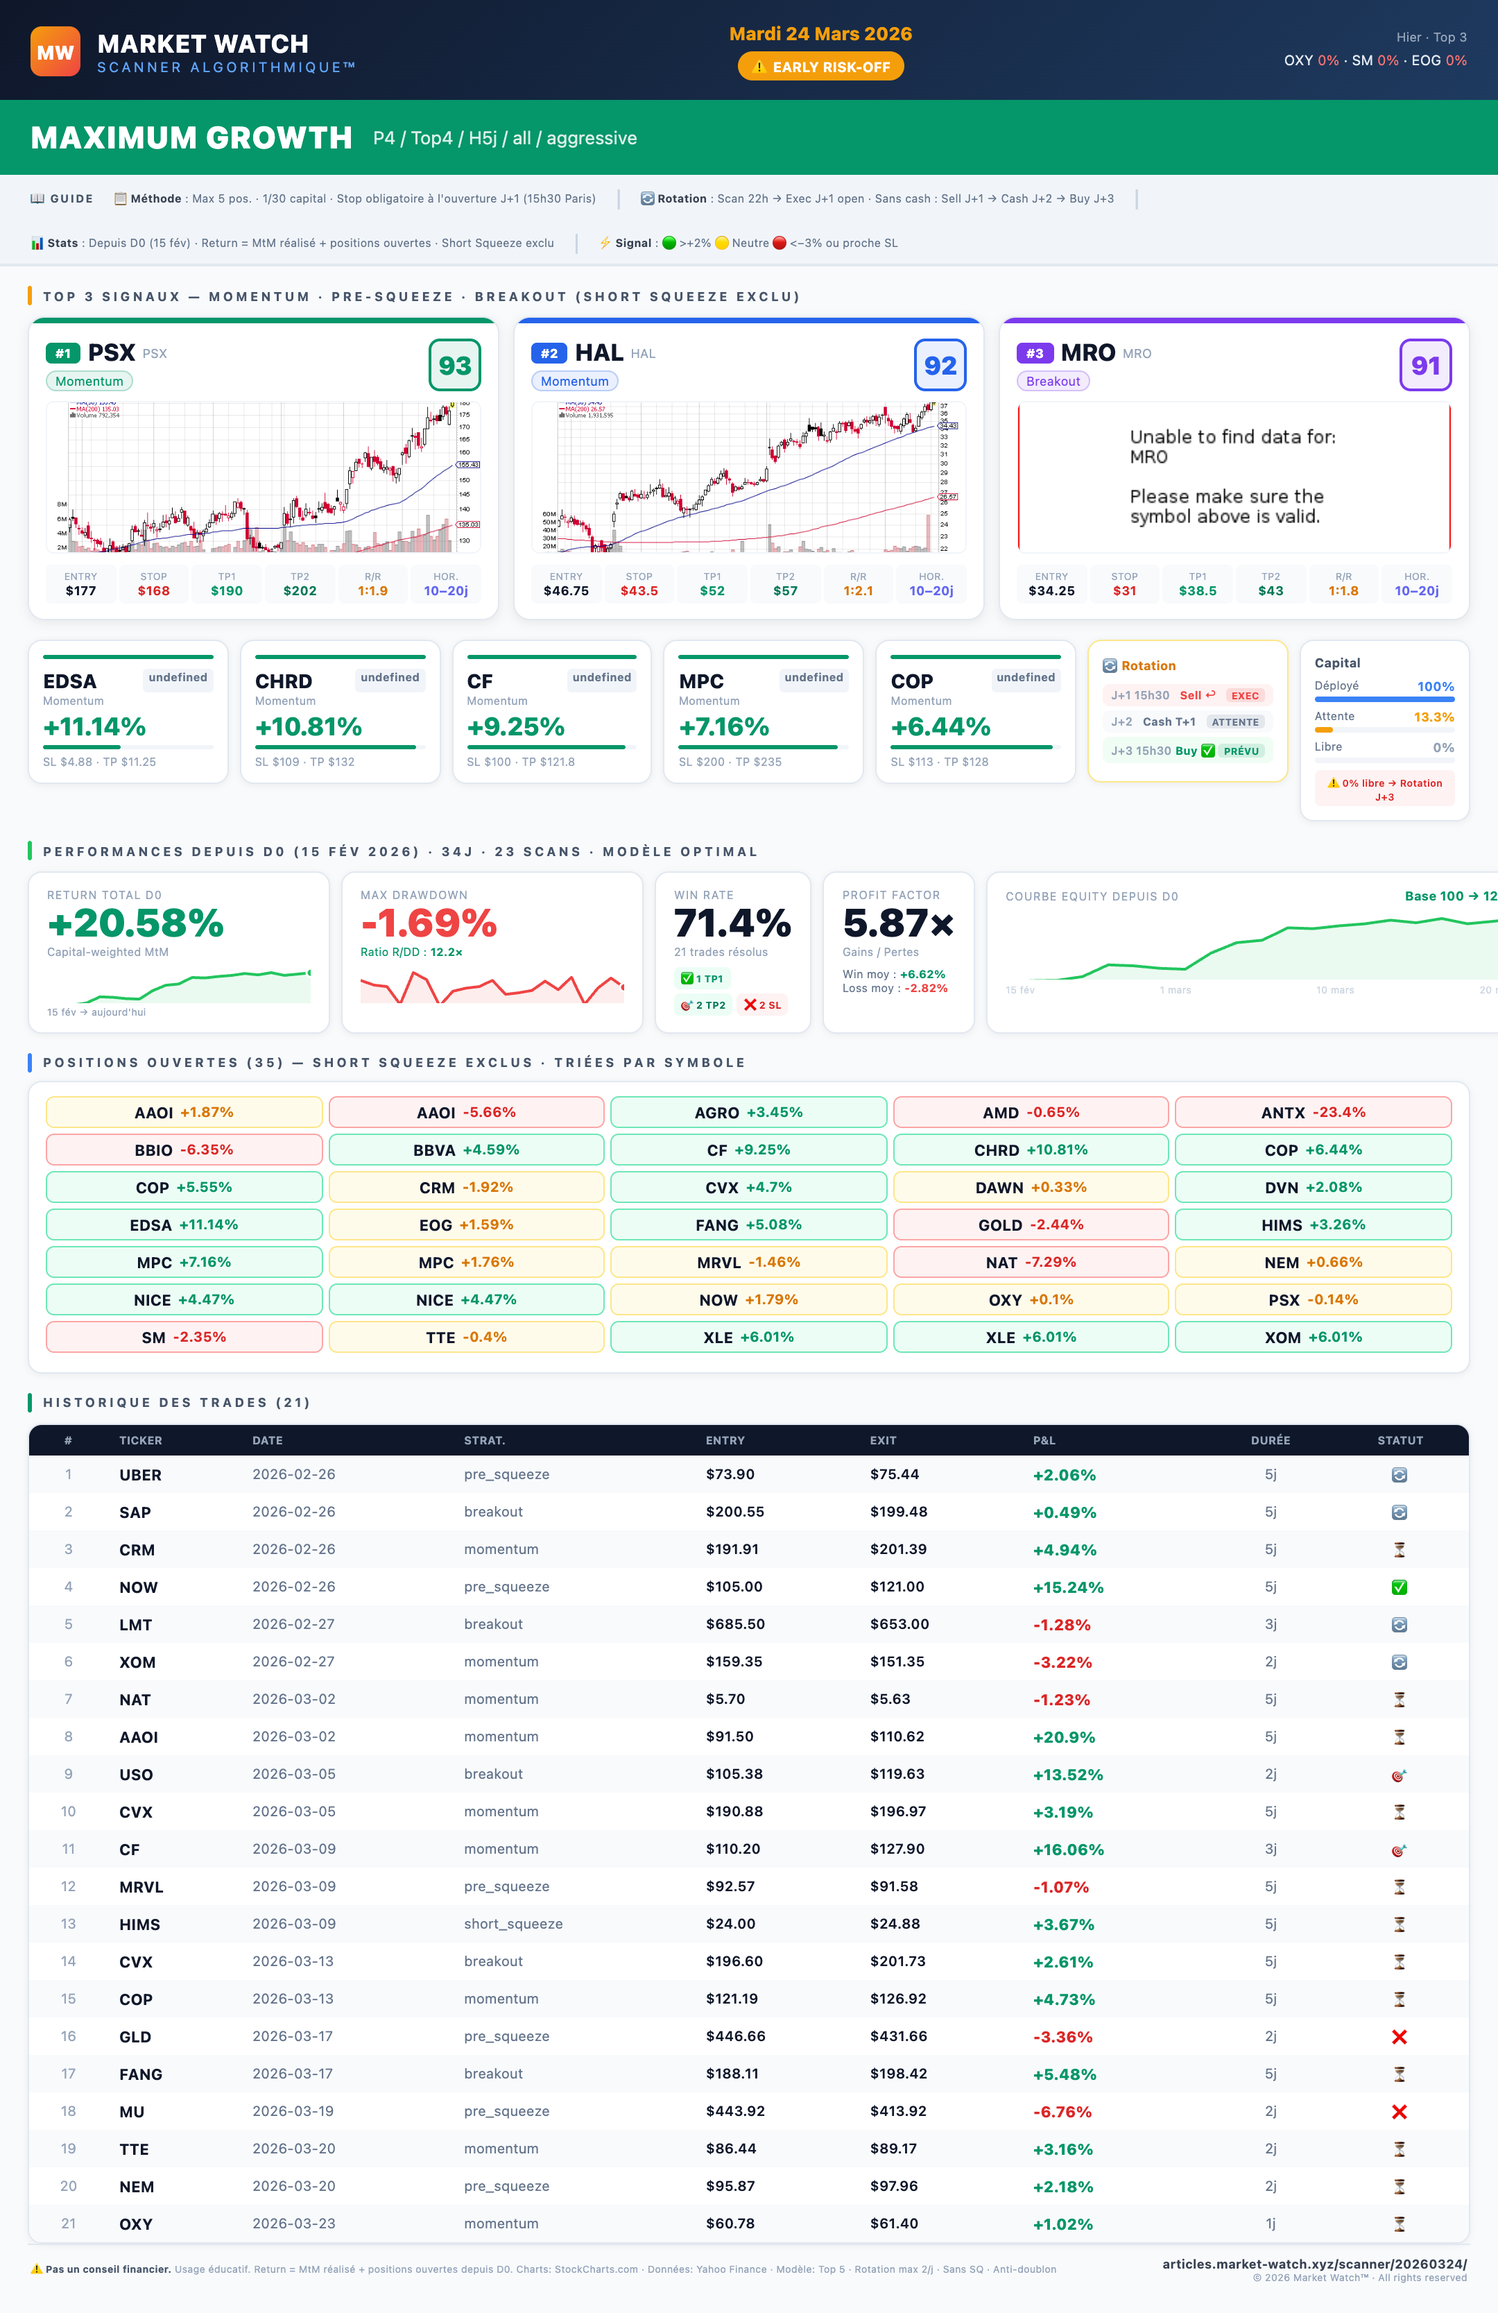
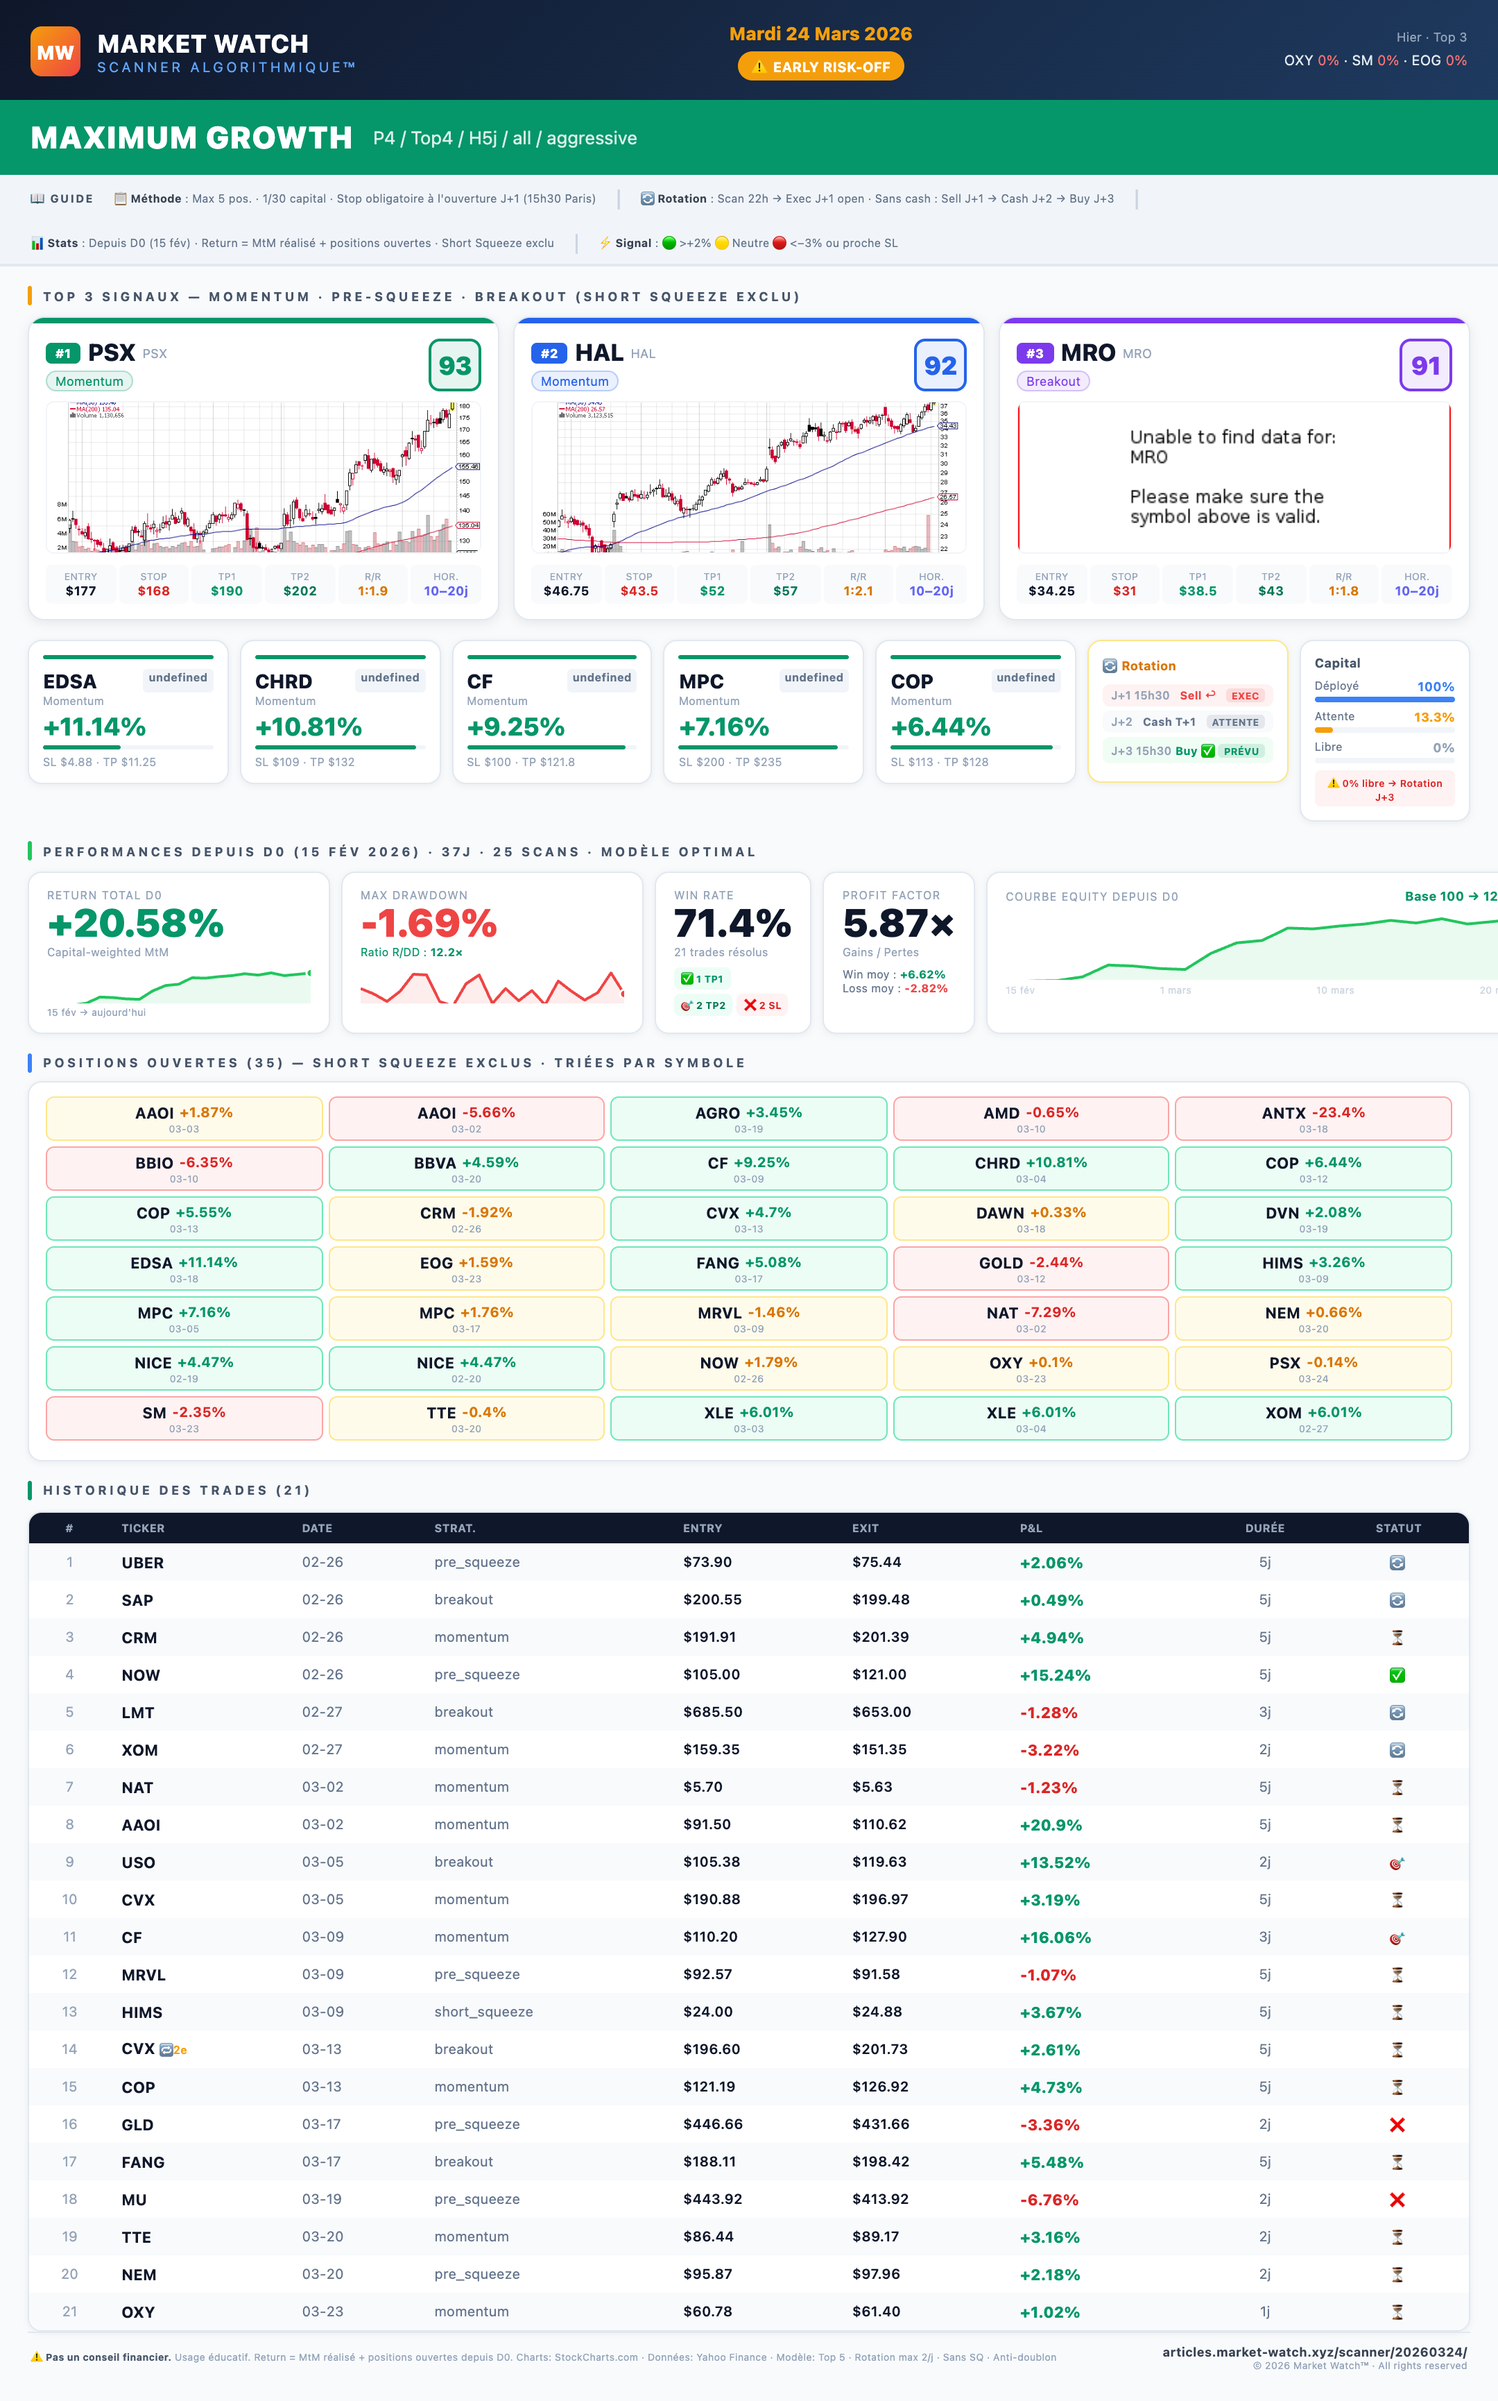
feat: add re-entry badge + scan dates on mode card images
- Trade table: 🔁2e indicator for re-entries on same ticker
- Positions grid: scan date (MM-DD) under each ticker
- Fix hardcoded 34j/23 scans → 37j/25 scans in gen-3-cards.js

diff --git a/tools/gen-3-cards.js b/tools/gen-3-cards.js
@@ -61,7 +61,7 @@ function buildMetrics(opt, tradeList) {
     avg_win_pct: avgWin, avg_loss_pct: avgLoss,
     profit_factor: pf,
     return_dd_ratio: maxDD > 0 ? (totalReturn/maxDD).toFixed(1) : 'INF',
-    total_days: 34, scans_count: 23,
+    total_days: 37, scans_count: 25,
     working_capital_pct: Math.min(100, tradeList.length*(100/opt.portfolioSize)),
     pending_orders_pct: 0,
     available_cash_pct: Math.max(0, 100 - tradeList.length*(100/opt.portfolioSize)),
@@ -72,14 +72,19 @@ function buildMetrics(opt, tradeList) {
 
 function buildTradeTableHTML(trades, color) {
   if (!trades || !trades.length) return '';
+  // Track re-entries per ticker
+  const seen = {};
   const rows = trades.slice(0, 30).map((t,i) => {
     const bg = i%2===0 ? '#f8fafc' : '#ffffff';
     const pnlColor = t.pnlPct > 0 ? '#059669' : t.pnlPct < 0 ? '#dc2626' : '#64748b';
     const statusIcon = {tp1:'\u2705',tp2:'\uD83C\uDFAF',sl:'\u274C',expired:'\u23F3',rotated:'\uD83D\uDD04',tp1_partial:'\u2705\u00BD'}[t.status]||'\u2014';
+    seen[t.ticker] = (seen[t.ticker] || 0) + 1;
+    const reentry = seen[t.ticker] > 1 ? ` <span style="font-size:8px;color:#f59e0b;font-weight:600">🔁${seen[t.ticker]}e</span>` : '';
+    const dateShort = t.scanDate ? t.scanDate.slice(5) : '\u2014'; // MM-DD
     return `<tr style="background:${bg}">
       <td style="padding:5px 8px;font-size:10px;color:#94a3b8;text-align:center">${i+1}</td>
-      <td style="padding:5px 8px;font-weight:700;font-size:11px;color:#0f172a">${t.ticker}</td>
-      <td style="padding:5px 8px;font-size:10px;color:#64748b">${t.scanDate||'\u2014'}</td>
+      <td style="padding:5px 8px;font-weight:700;font-size:11px;color:#0f172a">${t.ticker}${reentry}</td>
+      <td style="padding:5px 8px;font-size:10px;color:#64748b">${dateShort}</td>
       <td style="padding:5px 8px;font-size:10px;color:#64748b">${t.strategy||'\u2014'}</td>
       <td style="padding:5px 8px;font-size:10px;color:#0f172a;font-weight:600">$${(t.actualEntry||0).toFixed(2)}</td>
       <td style="padding:5px 8px;font-size:10px;color:#0f172a;font-weight:600">$${(t.exitPrice||0).toFixed(2)}</td>

diff --git a/tools/generate-scanner-image.js b/tools/generate-scanner-image.js
@@ -422,9 +422,13 @@ ${posGrid.map(row => `
 <div style="display:grid;grid-template-columns:repeat(5,1fr);gap:4px;margin-bottom:4px">
   ${row.map(p => {
     const s = sc(p.signal);
-    return `<div style="background:${s.bg};border:1px solid ${s.bdr};border-radius:6px;padding:4px 6px;display:flex;gap:5px;align-items:center;justify-content:center">
-      <span style="font-weight:700;font-size:11px;color:#0f172a">${p.ticker}</span>
-      <span style="font-weight:700;font-size:10px;color:${s.c}">${p.return_pct > 0 ? '+' : ''}${p.return_pct}%</span>
+    const dateShort = p.scan_date ? p.scan_date.slice(5) : '';
+    return `<div style="background:${s.bg};border:1px solid ${s.bdr};border-radius:6px;padding:4px 6px;text-align:center">
+      <div style="display:flex;gap:4px;align-items:center;justify-content:center">
+        <span style="font-weight:700;font-size:11px;color:#0f172a">${p.ticker}</span>
+        <span style="font-weight:700;font-size:10px;color:${s.c}">${p.return_pct > 0 ? '+' : ''}${p.return_pct}%</span>
+      </div>
+      ${dateShort ? `<div style="font-size:7px;color:#94a3b8;margin-top:1px">${dateShort}</div>` : ''}
     </div>`;
   }).join('')}
   ${row.length < 5 ? Array(5 - row.length).fill('<div></div>').join('') : ''}
